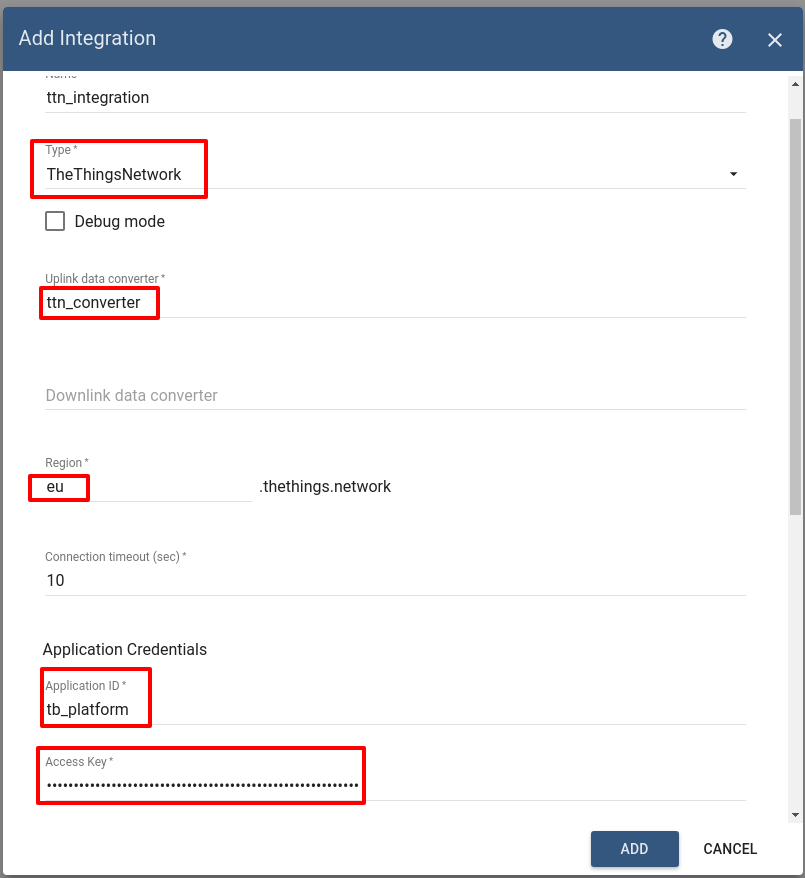
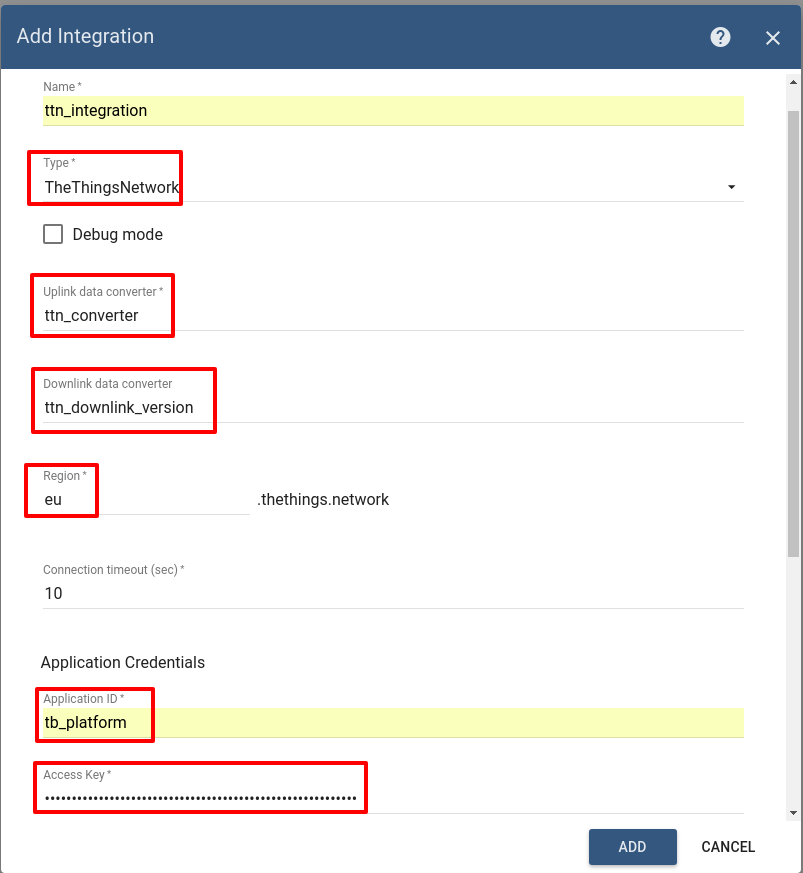
Add downlink to TheThingsNetwork integration tutorial.

diff --git a/docs/user-guide/integrations/ttn.md b/docs/user-guide/integrations/ttn.md
@@ -75,9 +75,9 @@ Press **Register** button.
 ## Integration with the Thingsboard
 In the TheThingsNetwork, we already make all required configuration (register device, decoder function, and register application). Now we can start configuring the Thingsboard.
 
-##### Thingsboard Data Converter
+##### Thingsboard Uplink Data Converter
 
-First, we need to create Data converter that will be used for integration. The converter should transform incoming payload into the required message format.
+First, we need to create Uplink Data converter that will be used for receiving messaged from the TTN. The converter should transform incoming payload into the required message format.
 Message must contains **deviceName** and **deviceType**. Those fields are used for submitting data to the correct device. If a device was not found then new device will be created.
 Here is how payload from TheThingsNetwork will look like:
 {% highlight json %}
@@ -128,6 +128,49 @@ return result;
 
 ![image](/images/user-guide/integrations/ttn/tb-converter.png)
 
+
+##### Thingsboard Downlink Data Converter
+For sending Downlink messages from the Thingsboard to the device inside TTN, we need to define downlink Converter.
+In general, output from Downlink converter should have the following structure:
+{% highlight json %}
+{
+    "contentType": "JSON",
+    "data": "{\"port\":1,\"confirmed\":false,\"payload_fields\":{\"version\":\"0.11\"}}",
+    "metadata": {
+        "devId": "thermostat_a"
+    }
+}
+{% endhighlight %}
+
+- **contentType** - defines how data will be encoded {TEXT | JSON | BINARY}
+- **data** - actual data that will be sent to the device in TTN. More details about API can be foind in this [TTN API](https://www.thethingsnetwork.org/docs/applications/mqtt/api.html){:target="_blank"}
+- **metadata** - in this object you should place correct devId value that will be used to identify target device in TTN
+
+Go to **Data Converters** and create new **downlink** Converter with this function: {% highlight javascript %}
+var data = {
+      port: 1,                
+      confirmed: false,      
+      payload_fields: {
+          version: msg.version
+      }
+    };
+
+var result = {
+    contentType: "JSON",
+    data: JSON.stringify(data),
+    metadata: {
+        devId: 'thermostat_a'
+    }
+
+};
+
+return result;
+{% endhighlight %}
+
+This converter will take **version** field from the incoming message and add it is a payload field in the outbound message. Destination device is a **thermostat_a** device.
+
+![image](/images/user-guide/integrations/ttn/tb-downlink-converter.png)
+
 ##### TTN Integration
 
 Next we will create Integration with TheThingsNetwork inside the Thingsboard. Open **Integrations** section and add new Integration with type
@@ -136,6 +179,7 @@ Next we will create Integration with TheThingsNetwork inside the Thingsboard. Op
 - Name: ttn_integration
 - Type: TheThingsNetwork
 - Uplink data converter: ttn_converter
+- Downlink data converter: ttn_downlink_version
 - Region: eu (region where your application was registered inside TTN)
 - Application ID: tb_platform (use **Application ID** from TTN)
 - Access Key: use **Access Key** from TTN
@@ -143,6 +187,8 @@ Next we will create Integration with TheThingsNetwork inside the Thingsboard. Op
 ![image](/images/user-guide/integrations/ttn/tb-integration.png)
 
 ## Validation
+
+##### Validate Uplink Messages
 Lets verify our integration. Go to the device **thermostat_a** page in TheThingsNetwork. Scroll to the **Simulate Uplink** section.
 Our device will publish temperature **0F** (15). So enter **0F** into payload field and press **Send** button.
 
@@ -154,6 +200,27 @@ Go to **Device Group** -> **All** -> **thermostat_a** - you can see that
 - In the **Latest Telemetry** section you will see that last submitted temperature = 15.
 
 ![image](/images/user-guide/integrations/ttn/tb-device-telemetry.png)
+
+##### Validate Downlink Messages
+For testing Downlink Messages, we will update our Root Rule Chain to send downlink message when device attribute is changed.
+Open and edit **Root Rule Chain**. Add **Integration Downlink** Action node and connect it with the **Message Type Switch** Node using relation 
+**Attributes Updated**
+ 
+![image](/images/user-guide/integrations/ttn/tb-add-rule-downlink.png)
+
+![image](/images/user-guide/integrations/ttn/tb-route-to-downlink.png)
+
+Save Changes.
+
+Go to **Device Group** -> **All** -> **thermostat_a** -> attributes section. We will add **Shared attribute** with name **version** and
+value **v.0.11**
+
+![image](/images/user-guide/integrations/ttn/tb-add-version.png)
+
+By making this step, we triggered downlink message to the device **thermostat_a** and this message should contains version field value. 
+Open TTN Console, navigate to **tb_platfrom** application, to the section **Data**. And we see that Downlink message was received.
+
+![image](/images/user-guide/integrations/ttn/ttn-downlink-verified.png)
 
 ## Next steps
 With this integration you can also configure Downlink converters and trigger required actions using Rule Engine nodes.
